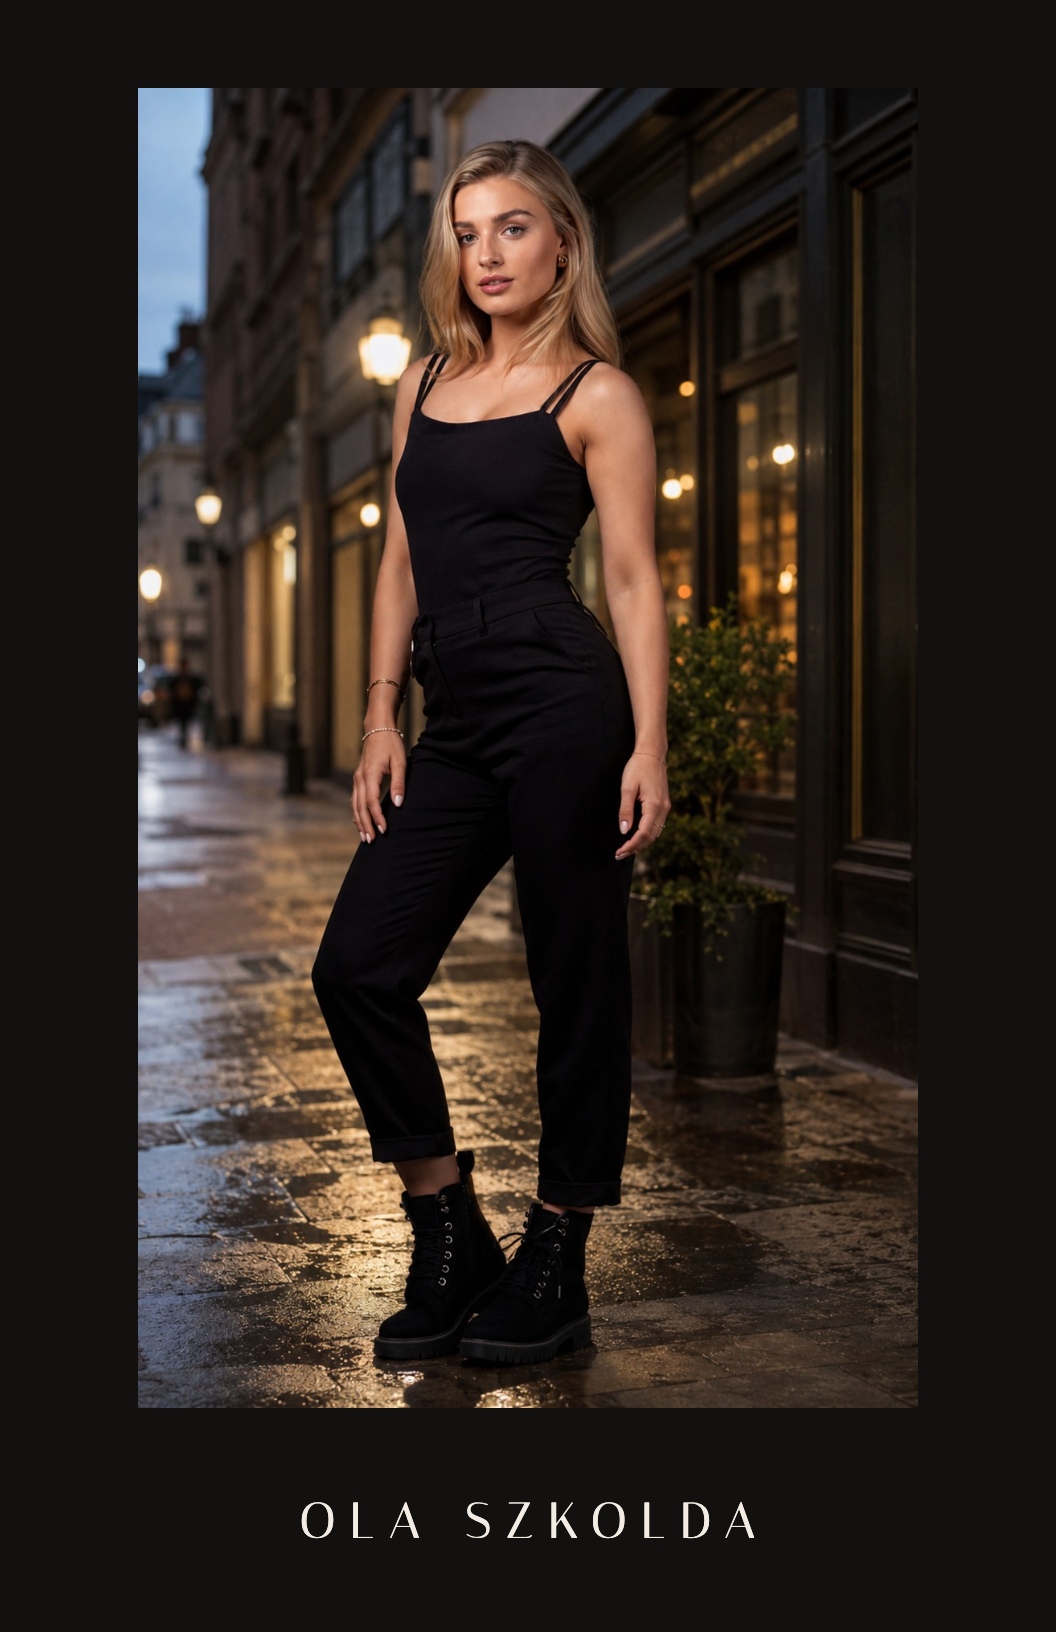
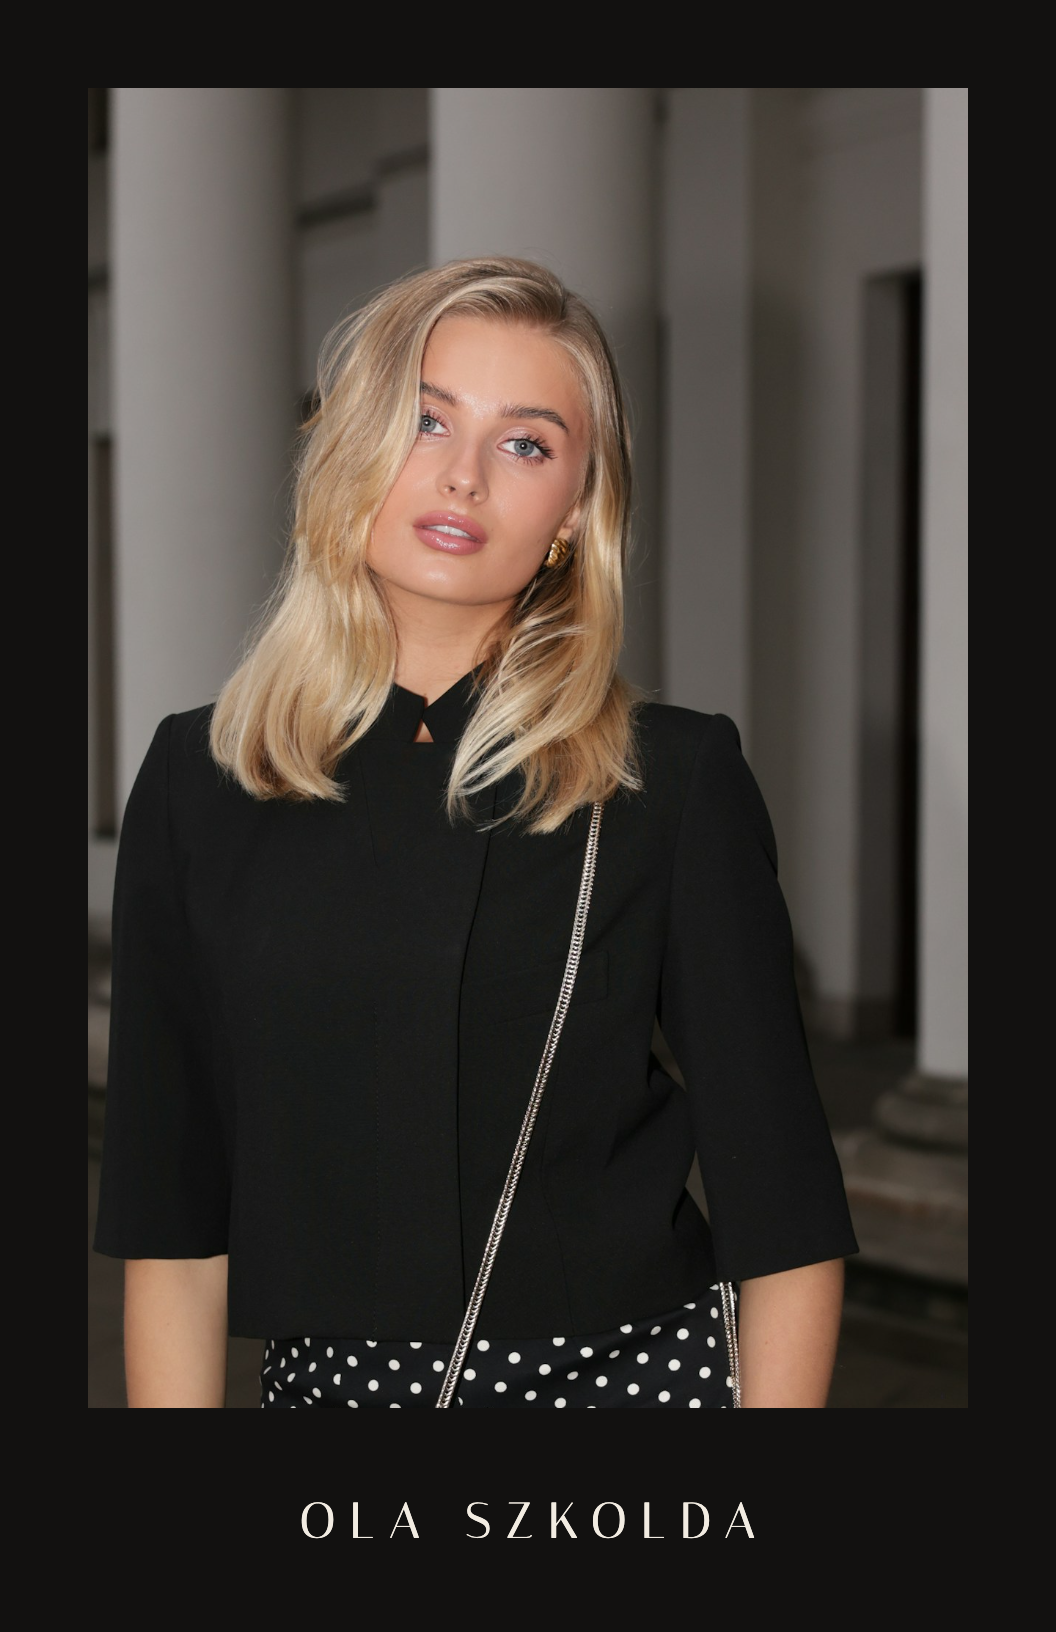
feat(comp-card): Night Edition plate becomes the colour beauty crop
The night street frame made a quiet card. The plate is now a colour
beauty crop of the standing frame: eyes near a third of the plate, hair
and shoulders whole, cut at the waist. The one face-led card in the row.
The studio face was the stronger plate but is the Diptych's, and a
photograph repeated across the row is the worse fault.

Claude-Session: https://claude.ai/code/session_01TiZhopTGrozGxwSaNE5x2k

diff --git a/lessons.md b/lessons.md
@@ -1259,7 +1259,7 @@ same talent record as the back), and each one varies on every axis at once:
 | Card | Structure | Field | Photograph | Voice |
 | --- | --- | --- | --- | --- |
 | The Cover Story | the photograph is the whole page; the name at trim-to-trim scale set behind the figure | none, the photograph | the walking full-length | Archivo 700, surname across the foot, given name at the head |
-| The Night Edition | the photograph as a plate on dark paper, the name once beneath it | lifted warm black | the night street frame | Italiana, hairline caps tracked wide |
+| The Night Edition | the photograph as a plate on dark paper, the name once beneath it | lifted warm black | a colour beauty crop of the standing frame | Italiana, hairline caps tracked wide |
 | The Diptych | two tall panels on a hinge rule | cream | studio beauty in B&W beside the full length in colour | Playfair Display caps, centred |
 
 Four cards, four photographs leading, four typefaces, four structures. The labels are the shipped catalog's own (`editions.js`: The
@@ -1322,11 +1322,16 @@ where the columns gave way to windows. The rule for a full-bleed front:
 the type has to *do* something with the photograph (occlusion, scale
 against the trims, contrast taken from the picture), or it is a caption.
 
-**25.6 A dark card must hold its edge on the stage.** The Night Edition
-replaced The Strip after sketches of the Cutout, the Night Edition and a
-Lookbook were compared: the inset plate on black was the most finished
-thing on the sheet and the only dark card, which gives the row a rhythm
-(cream, photograph, black, cream). Two things decided its execution. The
+**25.6 A dark card must hold its edge on the stage, and it needs a
+photograph with presence.** The Night Edition replaced The Strip after
+sketches of the Cutout, the Night Edition and a Lookbook were compared:
+the inset plate on black was the most finished thing on the sheet and the
+only dark card, which gives the row a rhythm (cream, photograph, black,
+cream). Its first frame, the night street, was chosen for its subject and
+made a quiet card; the plate is now a colour beauty crop of the standing
+frame, the one face-led card in the row. The studio face was the stronger
+plate but is the Diptych's, and a photograph repeated across the row is a
+worse fault than any single card. Two things decided its execution. The
 site's stage is `#050505`, so a pure-black card disappears into it and its
 plate floats alone; the field is the photograph's own shadow tone lifted
 to `#121110`, which holds the edge on screen and still prints as a rich
